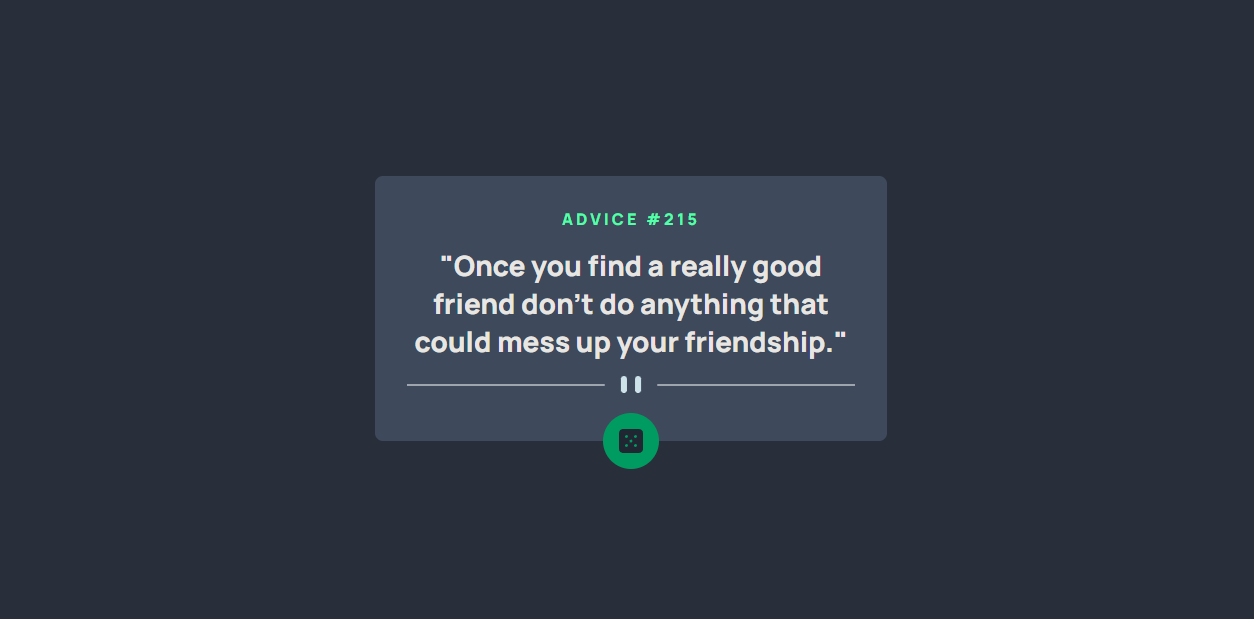
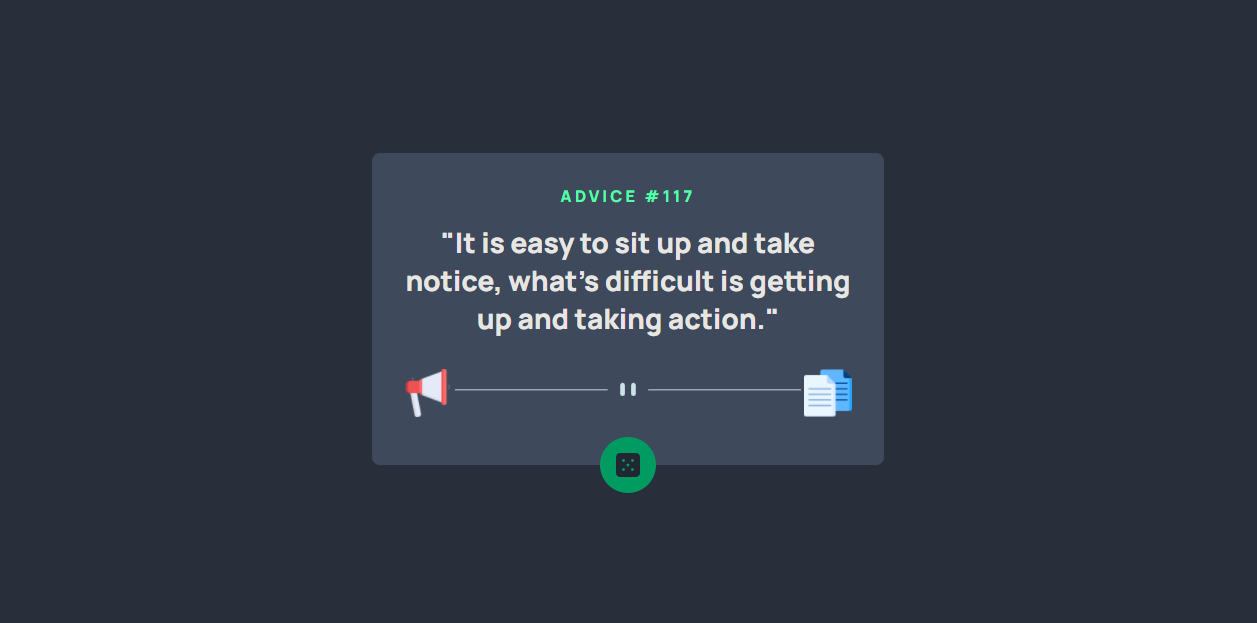
added text to speech and copy to clipboad

Changed region(s): [[0.2799, 0.2456, 0.7153, 0.7981]]

diff --git a/script.js b/script.js
@@ -2,8 +2,23 @@
 const dice = document.querySelector('.card__dice');
 const quote = document.querySelector('.card__quote');
 const title = document.querySelector('.card__title');
+const speaker = document.querySelector('.card__actions-speaker');
+const copy = document.querySelector('.card__actions-copy');
+
+let advice = "It is easy to sit up and take notice, what's difficult is getting up and taking action.";
+
+// configure speech
+const speech = new SpeechSynthesisUtterance();
+speech.lang = "en-US";
+speech.text = advice;
+speech.volume = 1;
+speech.rate = 1;
+speech.pitch = 1; 
+
+
 
 dice.addEventListener('click', () => {
+
     dice.classList.add('card__dice-rotate')
     setTimeout(() => {
         fetch('https://api.adviceslip.com/advice', {
@@ -14,6 +29,8 @@ dice.addEventListener('click', () => {
             dice.classList.remove('card__dice-rotate')
             title.textContent = `Advice #${results.slip.id}`
             quote.textContent = `"${results.slip.advice}"`
+            advice = results.slip.advice + '.'
+            speech.text = results.slip.advice + '.'
         })
         .catch(error => {
             console.log(error);
@@ -22,3 +39,27 @@ dice.addEventListener('click', () => {
     }, 1000);
 
 })
+
+speaker.addEventListener('click', () => window.speechSynthesis.speak(speech));
+copy.addEventListener('click',()=>{
+    if (navigator.clipboard) {
+        navigator.clipboard.writeText(advice)
+        .then(() => {
+            alert('Copied')
+        })
+        .catch(err => {
+            alert('Failed to copy')
+        })
+    } else {
+        const el = document.createElement('textarea');
+        el.value = advice;
+        el.setAttribute('readonly', '');
+        el.style.position = 'absolute';
+        el.style.left = '-9999px';
+        document.body.appendChild(el);
+        el.select();
+        document.execCommand('copy');
+        document.body.removeChild(el);
+        alert("Copied!");
+    }
+});

diff --git a/style.css b/style.css
@@ -56,11 +56,6 @@ body {
     font-size: var(--font-size);
 }
 
-.card__footer {
-    margin-bottom: 1rem;
-    width: 100%;
-}
-
 .card__dice {
     border-radius: 100%;
     background: var(--neon-green);
@@ -81,6 +76,53 @@ body {
     transition: all ease 1.5s;
 }
 
+.card__actions {
+    display: flex;
+    justify-content: center;
+    align-items: flex-end;
+    width: 100%;
+    gap: 0.2rem;
+    padding: 1rem;
+}
+
+.card__divider {
+    margin-bottom: 1rem;
+    flex: auto;
+    width: auto;
+}
+
+.card__divider-img {
+    width: 100%;
+}
+
+
+@keyframes bounce {
+   
+
+    33% {
+        transform: scale(1);
+    }
+
+    66% {
+        transform: scale(0.5);
+    }
+
+
+    100% {
+        transform: scale(1);
+    }
+}
+
+
+.action {
+    width: 3rem;
+    flex: 1;
+    cursor: pointer;
+    animation-name: bounce;
+    animation-duration: 3s;
+    animation-delay: .5s;
+}
+
 @media screen and (max-width: 375px) {
     .card__title {
         font-size: 0.7rem;
@@ -90,7 +132,7 @@ body {
         font-size: 1.5rem;
     }
 
-    .card__footer {
+    .card__divider {
         margin-bottom: 1.6rem;
     }
 

diff --git a/index.html b/index.html
@@ -19,7 +19,13 @@
         <h1 class="card__title">Advice #117</h1>
         <p class="card__quote">"It is easy to sit up and take notice, what's difficult is getting up and taking action."
         </p>
-        <img src="./images/pattern-divider-desktop.svg" alt="" class="card__footer">
+        <div class="card__actions">
+          <img class="card__actions-speaker action" src="./images/megaphone.png" alt="speak advice">
+          <div  alt="" class="card__divider">
+            <img class="card__divider-img" src="./images/pattern-divider-desktop.svg" alt="divider image">
+          </div>
+          <img class="card__actions-copy action" src="./images/copy.png" alt="copy advice">
+        </div>
         <div class="card__dice">
           <img src="./images/icon-dice.svg" alt="dice" class="card__dice-img">
         </div>

diff --git a/README.md b/README.md
@@ -48,7 +48,7 @@ Click dice to get a new advice
 
 ### What I learned
 
-It was fun messing with the transform and transition properties. I got to add animations to this app which is something I don't usually do. Moving forward I'll make it a habbit
+It was fun messing with the animation properties. I got to add animations to this app which is something I don't usually do. Moving forward I'll make it a habbit
 ## Author
 
 - Website - [Raymond Adutwum Agyei](https://corps-ai.herokuapp.com)
